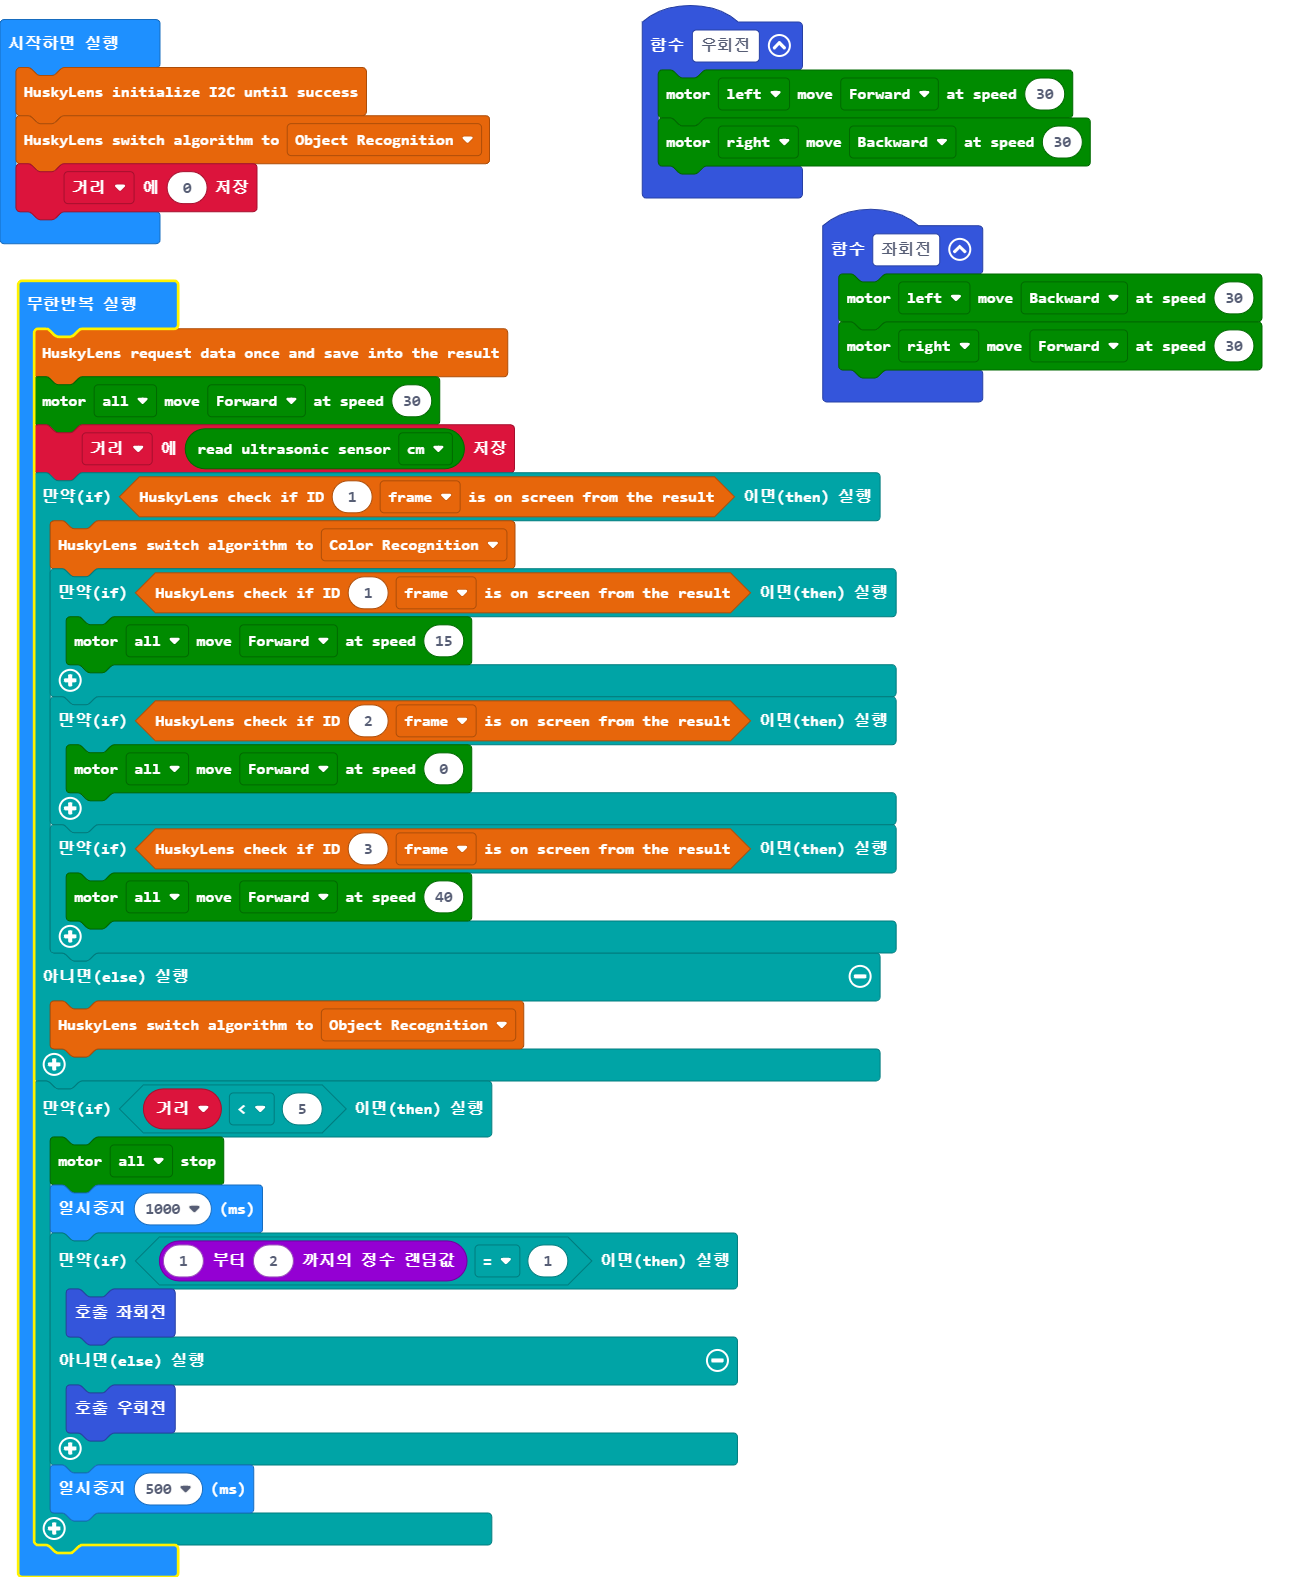
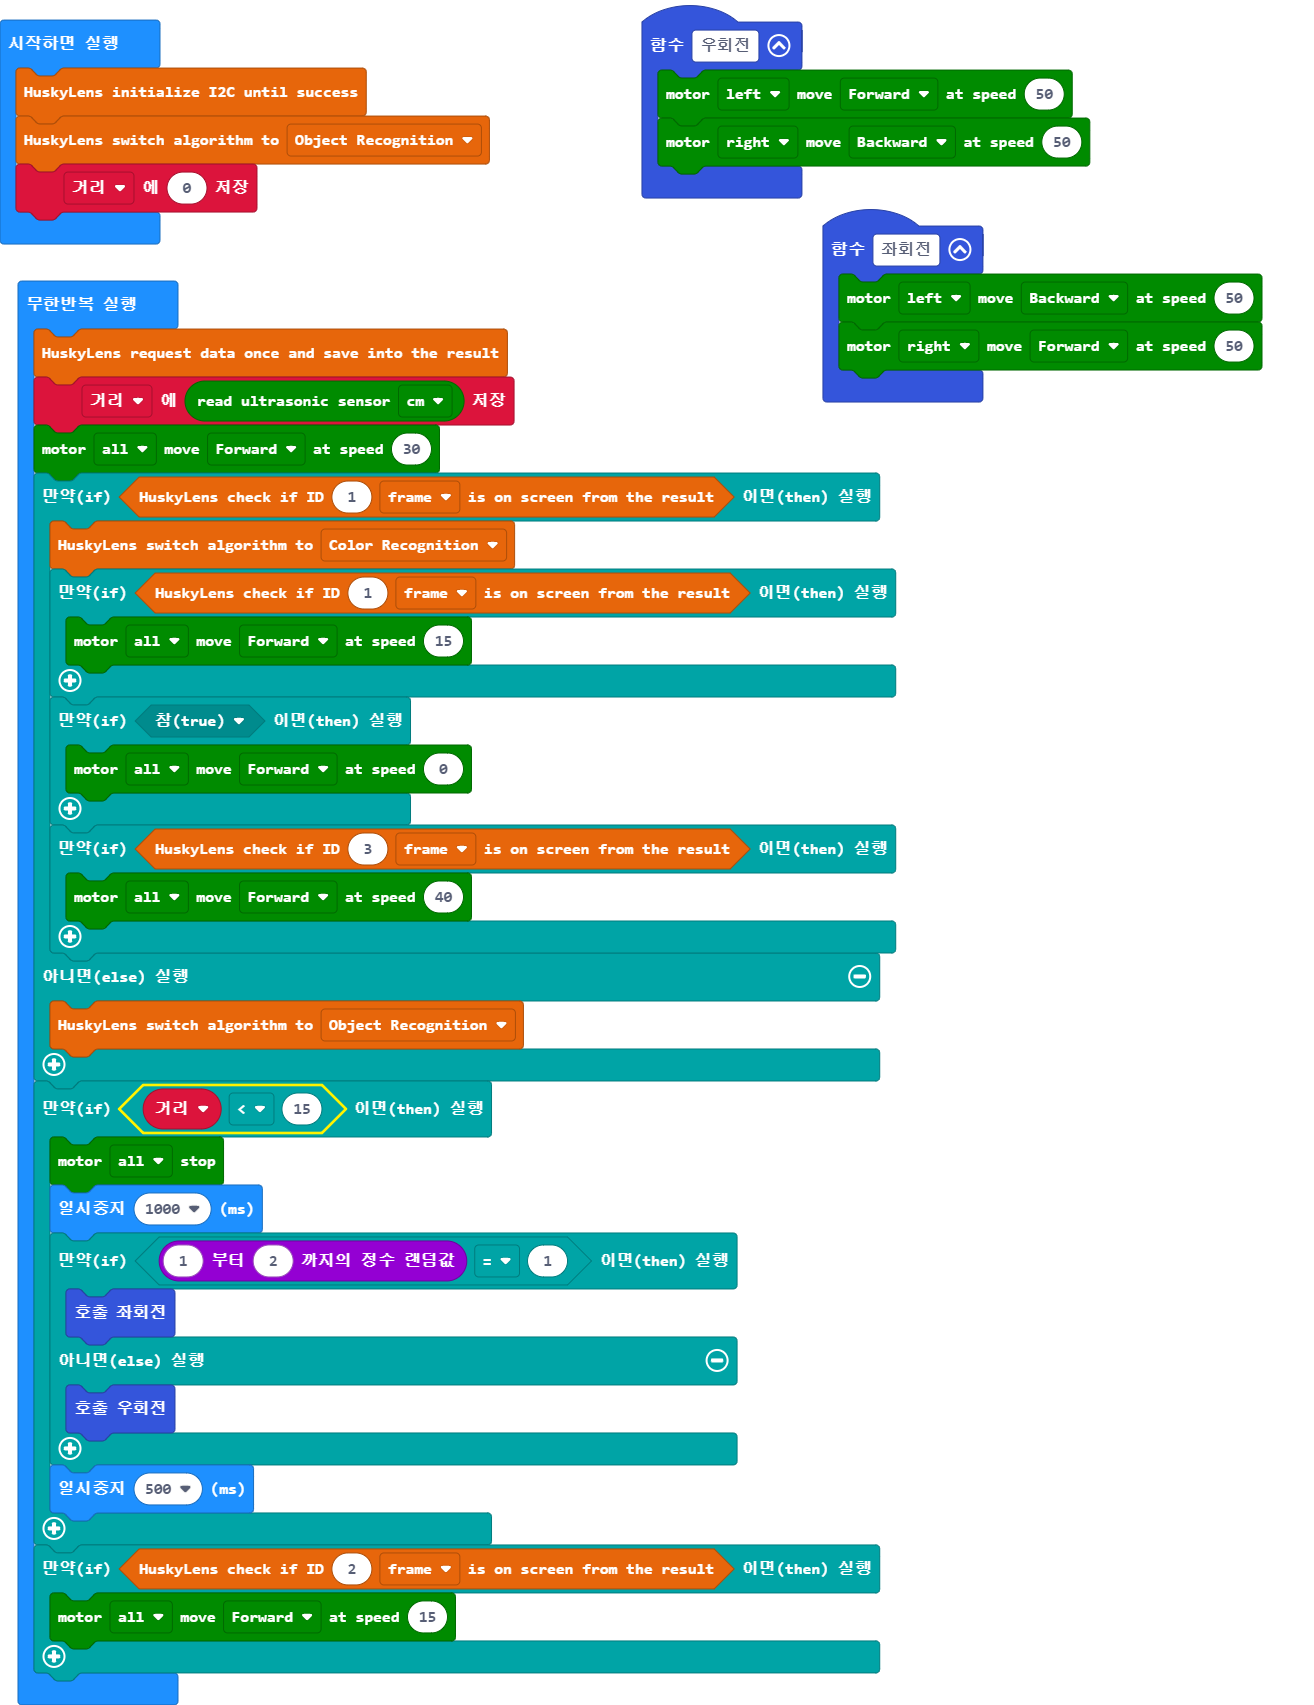
main.blocks, main.ts 업데이트하기

diff --git a/main.ts b/main.ts
@@ -1,24 +1,24 @@
 function 좌회전 () {
-    maqueen.motorRun(maqueen.Motors.M1, maqueen.Dir.CCW, 30)
-    maqueen.motorRun(maqueen.Motors.M2, maqueen.Dir.CW, 30)
+    maqueen.motorRun(maqueen.Motors.M1, maqueen.Dir.CCW, 50)
+    maqueen.motorRun(maqueen.Motors.M2, maqueen.Dir.CW, 50)
 }
 function 우회전 () {
-    maqueen.motorRun(maqueen.Motors.M1, maqueen.Dir.CW, 30)
-    maqueen.motorRun(maqueen.Motors.M2, maqueen.Dir.CCW, 30)
+    maqueen.motorRun(maqueen.Motors.M1, maqueen.Dir.CW, 50)
+    maqueen.motorRun(maqueen.Motors.M2, maqueen.Dir.CCW, 50)
 }
 huskylens.initI2c()
 huskylens.initMode(protocolAlgorithm.ALGORITHM_OBJECT_RECOGNITION)
 let 거리 = 0
 basic.forever(function () {
     huskylens.request()
-    maqueen.motorRun(maqueen.Motors.All, maqueen.Dir.CW, 30)
     거리 = maqueen.Ultrasonic(PingUnit.Centimeters)
+    maqueen.motorRun(maqueen.Motors.All, maqueen.Dir.CW, 30)
     if (huskylens.isAppear(1, HUSKYLENSResultType_t.HUSKYLENSResultBlock)) {
         huskylens.initMode(protocolAlgorithm.ALGORITHM_COLOR_RECOGNITION)
         if (huskylens.isAppear(1, HUSKYLENSResultType_t.HUSKYLENSResultBlock)) {
             maqueen.motorRun(maqueen.Motors.All, maqueen.Dir.CW, 15)
         }
-        if (huskylens.isAppear(2, HUSKYLENSResultType_t.HUSKYLENSResultBlock)) {
+        if (true) {
             maqueen.motorRun(maqueen.Motors.All, maqueen.Dir.CW, 0)
         }
         if (huskylens.isAppear(3, HUSKYLENSResultType_t.HUSKYLENSResultBlock)) {
@@ -27,7 +27,7 @@ basic.forever(function () {
     } else {
         huskylens.initMode(protocolAlgorithm.ALGORITHM_OBJECT_RECOGNITION)
     }
-    if (거리 < 5) {
+    if (거리 < 15) {
         maqueen.motorStop(maqueen.Motors.All)
         basic.pause(1000)
         if (randint(1, 2) == 1) {
@@ -36,5 +36,8 @@ basic.forever(function () {
             우회전()
         }
         basic.pause(500)
+    }
+    if (huskylens.isAppear(2, HUSKYLENSResultType_t.HUSKYLENSResultBlock)) {
+        maqueen.motorRun(maqueen.Motors.All, maqueen.Dir.CW, 15)
     }
 })
